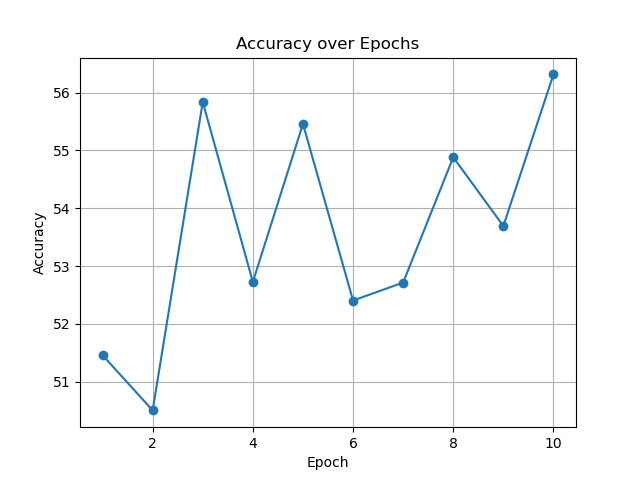
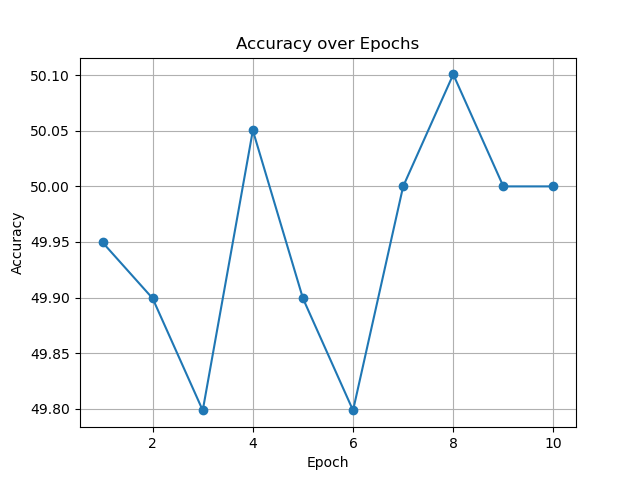
added validation set and data augmentation

diff --git a/recognition/alzheimers_transformer_46963765/dataset.py b/recognition/alzheimers_transformer_46963765/dataset.py
@@ -1,9 +1,9 @@
-#import it
 import torch
 from torch.utils.data import DataLoader
 import torchvision
 import torchvision.transforms as transforms
 import matplotlib.pyplot as plt
+import os
 
 
 
@@ -18,7 +18,7 @@ class ADNI_Dataset:
         self._test_root = "./recognition/alzheimers_transformer_46963765/data/test"
     
     # To get the training dataloader
-    def get_train_loader(self, location=None, transform=None):
+    def get_train_and_valid_loader(self, location=None, transform=None):
         
         #can provide seperate locations and transformations if needed, else default
         if location != None:
@@ -30,8 +30,34 @@ class ADNI_Dataset:
             
         # transform and load in dataloader with shuffle
         train_dataset = torchvision.datasets.ImageFolder(root=root_path, transform=transform)
+        
+        train_dataset.samples = sorted(train_dataset.samples, key=lambda x: os.path.basename(x[0]))
+
+        ad_count = 0
+        nc_count = 0
+
+        # Initialize lists to store the selected indices for each class
+        ad_indices = []
+        nc_indices = []
+
+        # Iterate through the sorted dataset and select 250 images for each class
+        for idx, (image_path, class_index) in enumerate(train_dataset.samples):
+            if class_index == 0 and ad_count < 1000:  # Assuming class 0 represents 'AD'
+                ad_indices.append(idx)
+                ad_count += 1
+            elif class_index == 1 and nc_count < 1000:  # Assuming class 1 represents 'NC'
+                nc_indices.append(idx)
+                nc_count += 1
+
+        selected_indices = ad_indices + nc_indices
+        selected_dataset = torch.utils.data.Subset(train_dataset, selected_indices)
+        train_dataset.samples = [train_dataset.samples[i] for i in range(len(train_dataset.samples)) if i not in selected_indices]
+
+
         train_loader = DataLoader(train_dataset, batch_size=self.batch_size, shuffle=True)
-        return train_loader
+        validation_loader = DataLoader(selected_dataset, batch_size=self.batch_size, shuffle=True)
+
+        return train_loader, validation_loader 
 
     # To get the testing dataloeader
     def get_test_loader(self, location=None, transform=None):
@@ -55,7 +81,10 @@ class ADNI_Dataset:
         if type == "train":
             transform_method = transforms.Compose([
             transforms.ToTensor(),
-            transforms.CenterCrop(240),
+            transforms.RandomRotation(degrees=15),
+            transforms.RandomHorizontalFlip(),
+            transforms.GaussianBlur(kernel_size=3),  # Apply Gaussian blur with a specified kernel size
+            transforms.RandomCrop(240),
             transforms.Grayscale(num_output_channels=1),
             transforms.Normalize((0.1232,), (0.2308,))
             ])

diff --git a/recognition/alzheimers_transformer_46963765/modules.py b/recognition/alzheimers_transformer_46963765/modules.py
@@ -17,12 +17,12 @@ class ImageEncoder(nn.Module):
         enc = self.position_encodings.unsqueeze(0).expand((images.shape[0],) + self.position_encodings.shape).unsqueeze(-1).unsqueeze(-1).expand(-1, -1, 240, 240)
         enc = enc.type_as(images) 
         
-        # add to the images matrix to make the positional encoding, image becomes 32x128x240x240
+        # add to the images matrix to make the positional encoding, image becomes 32x64x240x240
         images = torch.cat([images, enc], dim=1)
-        # flatten the last two dimentions of image to 1d, image becomes 32x128x57600
+        # flatten the last two dimentions of image to 1d, image becomes 32x64x57600
         images = images.flatten(2)
         
-        # remake permuation of image for attention block, image becomes 57600x32x128 ready for attention layer
+        # remake permuation of image for attention block, image becomes 57600x32x64 ready for attention layer
         images = images.permute(2, 0, 1)
         return images
 
@@ -48,8 +48,8 @@ class Attention(nn.Module):
       
     def forward(self, latent, image):
 
-        # latent is 32x32x128
-        # image is 57600x32x128 in case of self attention image is also latent
+        # latent is 32x32x64
+        # image is 57600x32x64 in case of self attention image is also latent
         out = self.lnorm1(image)
         out, _ = self.attn(query=latent, key=image, value=image)
         
@@ -114,7 +114,7 @@ class Classifier(nn.Module):
         
     def forward(self, latent):
         
-        #32x32x128 latent  
+        #32x32x64 latent  
         out = self.fc1(latent)
         #32x32x16 latent
         out = out.mean(dim=0)
@@ -132,7 +132,7 @@ class ADNI_Transformer(nn.Module):
         
         # Hyper Parameters being used
         #LATENT_DIM = 32
-        #LATENT_EMB = 128
+        #LATENT_EMB = 64
         #latent_layers = 4
         #latent_heads = 8
         #classifier_out = 16

diff --git a/recognition/alzheimers_transformer_46963765/train.py b/recognition/alzheimers_transformer_46963765/train.py
@@ -1,15 +1,14 @@
 import dataset as ds
 from modules import *
 import torch.optim as optim
-from predict import test_accuracy, visualize_loss, visualize_accuracies
+from predict import test_accuracy, visualize_loss, visualize_accuracies, valid_accuracy
 
 # check for CUDA device
 device = torch.device("cuda" if torch.cuda.is_available() else "cpu")
 
 def train(epochs, learning_rate, batch_size, model):
     # retrieve dataset
-    dataset = ds.ADNI_Dataset(); train_loader = dataset.get_train_loader()
-    
+    dataset = ds.ADNI_Dataset(); train_loader, validation_loader = dataset.get_train_and_valid_loader()
     # BCELoss used with the Adam optimiser
     optimizer = optim.Adam(model.parameters(), learning_rate)
     criterion = nn.BCELoss()
@@ -35,15 +34,17 @@ def train(epochs, learning_rate, batch_size, model):
                 loss.backward()
                 optimizer.step()
                 batch_loss += loss.item()
+            
                 
         # Print results for the epoch        
         batch_losses.append(batch_loss/(j+1))
         print("epoch {} complete".format(epoch + 1))
         print("loss is {}".format(batch_loss/(j+1)))
         # Get accuracy for the epoch
-        accuracy = test_accuracy(model, batch_size)
-        print("accuracy is {}".format(accuracy))
+        accuracy = valid_accuracy(model, batch_size, validation_loader)
+        print("validation accuracy is {}".format(accuracy))
         accuracies.append(accuracy) 
+        
         
     return model, batch_losses, accuracies
 

diff --git a/recognition/alzheimers_transformer_46963765/predict.py b/recognition/alzheimers_transformer_46963765/predict.py
@@ -42,6 +42,26 @@ def test_accuracy(model, batch_size):
     return accuracy*100
 
 
+def valid_accuracy(model, batch_size, valid_loader):
+    correct_predictions = 0
+    total_samples = 0    
+            
+    model.eval() 
+    for j, (images, labels) in  enumerate(valid_loader):
+        if images.size(0) == batch_size:
+            # forward pass through model
+            images = images.to(device); labels = labels.to(device)
+            outputs = model(images).squeeze()
+            # calculate total correct 
+            predictions = (outputs >= 0.5).long()
+            correct_predictions += (predictions == labels).sum().item()
+            total_samples += labels.size(0)
+            
+    # calculate final accuracy and return as percent
+    accuracy = correct_predictions / total_samples
+    return accuracy*100    
+
+
 def visualize_accuracies(accuracies):
     # epochs on the x axis, accuracies on y axis 
     epochs = range(1, len(accuracies) + 1)
